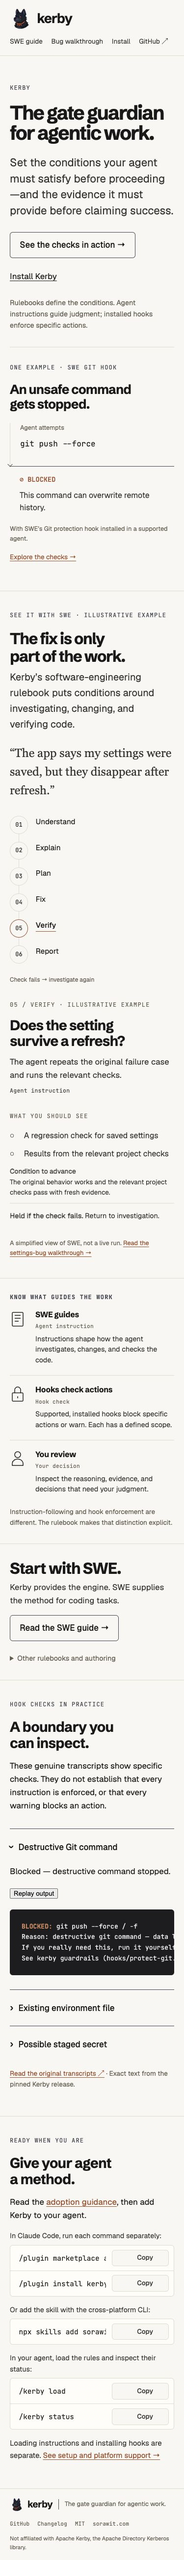
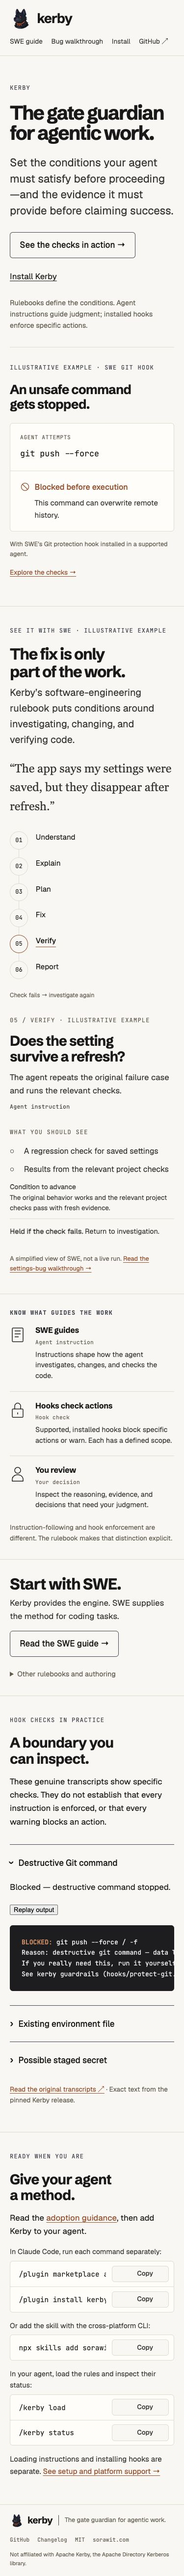
fix: group hero command and outcome in a balanced example frame

diff --git a/docs/redesign-review.md b/docs/redesign-review.md
@@ -83,3 +83,7 @@ Updated homepage metadata and design guidance. Full checks pass with pinned-sour
 ## Compact hero example
 
 Replaced the hero's condition/check/consequence definition list with a short command-to-blocked-outcome sequence. The panel is explicitly labeled as one SWE Git-hook example and states the installation requirement. Editorial explanation uses ordinary page styling; the exact animated transcripts remain in the linked hook-check section. Updated homepage screenshots. Full checks pass; desktop visual review and 375px overflow check completed.
+
+## Visual designer pass on the hero example
+
+Two independent design agents identified the rail/arrow/divider collision and inconsistent text insets. Replaced that construction with one light outlined frame and two consistently padded rows, plus an SVG stop icon and explicit “Blocked before execution” label. Installation context stays outside the frame. A follow-up desktop screenshot review found no material visual issue; mobile rendering was also inspected at 375px with no horizontal overflow. Full checks pass. Homepage screenshots refreshed.
